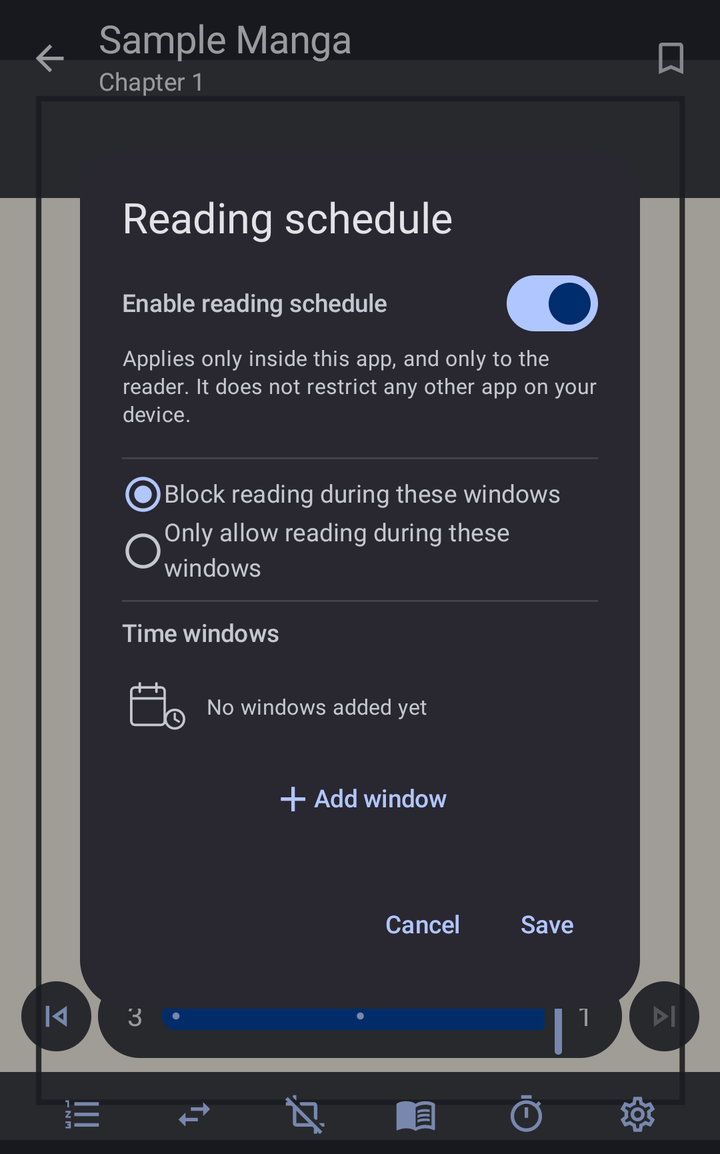
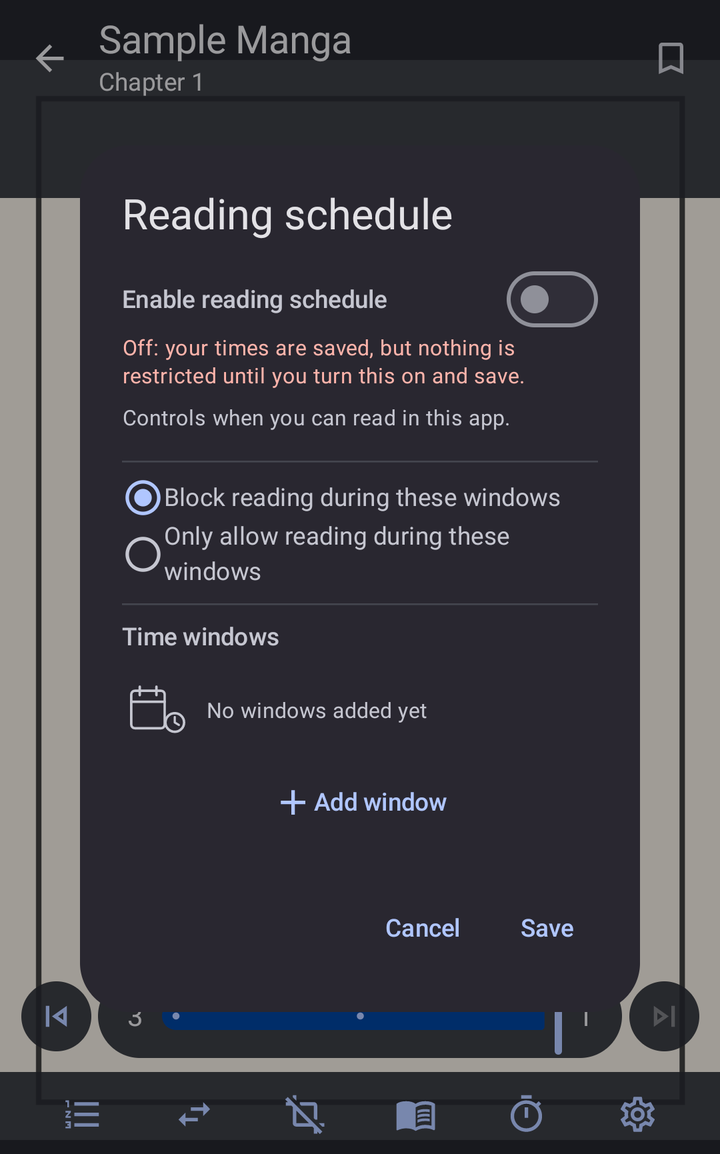
0.8.25: schedule note no longer talks about other apps; screenshot and records updated

diff --git a/app/src/main/java/exh/recs/KmkRecsReleaseNotes.kt b/app/src/main/java/exh/recs/KmkRecsReleaseNotes.kt
@@ -654,7 +654,7 @@ object KmkRecsReleaseNotes {
         #### What's Changed
 
         ##### New
-        - an optional reading schedule (Settings > Reader > Reading schedule) that can restrict or allow reading during chosen days and times, entirely inside this app.
+        - an optional reading schedule (Settings > Reader > Reading schedule) that can restrict or allow reading during chosen days and times.
         - add or remove any number of recurring time windows, each covering one or more days of the week, using the same time picker already used elsewhere in the app.
 
         ##### Improve

diff --git a/docs/kmk/feature-guides/reading.md b/docs/kmk/feature-guides/reading.md
@@ -17,7 +17,7 @@ These controls are optional. When disabled, they do not restrict ordinary readin
 
 The schedule entry in the reader opens the same choices found under **Settings > Reader**, so there is only one place to manage the schedule. Changes are saved with the app's other settings.
 
-**Reading schedule** lets you choose days and time windows, then either block reading during those windows or allow reading only during them. Enable the schedule to apply it. It affects this app's reader only, not other apps. If an allowed period ends while you are already reading, you can finish that chapter; a new chapter waits until reading is allowed again.
+**Reading schedule** lets you choose days and time windows, then either block reading during those windows or allow reading only during them. Enable the schedule to apply it. If an allowed period ends while you are already reading, you can finish that chapter; a new chapter waits until reading is allowed again.
 
 The **manual timer** is separate from the schedule. It counts active reading time rather than time spent with the app in the background. The timer dialog has three sections:
 
@@ -257,7 +257,7 @@ The prompt appears after leaving the reader, not over the final page. Declining 
 
 **In v0.8.25 (not yet released):** the reading schedule dialog in the reader has an **Enable reading schedule** switch, so you can turn the schedule on without leaving the manga. When it is off, the dialog says the schedule will not apply until enabled. Back returns to the reader. Adding the first time window while the schedule is off switches it on, and you can switch it off again before saving. Settings > Reader keeps its own switch.
 
-<p align="center"><img src="../visual-guide/v0.8.25/reader-schedule-enable-switch.png" width="260" alt="Reading schedule dialog with the Enable reading schedule switch turned on"></p>
+<p align="center"><img src="../visual-guide/v0.8.25/reader-schedule-enable-switch.png" width="260" alt="Reading schedule dialog with the Enable reading schedule switch and the note about what it does"></p>
 <p align="center"><em>The reading schedule dialog with its enable switch.</em></p>
 
 Switching sources does not bypass a schedule restriction. The schedule is off by default; the manual timer has its own separate choices.
